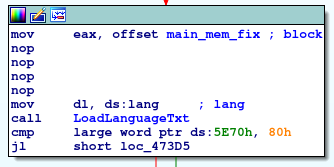
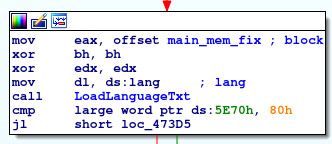
Removed the nop-ing of the xor operations, since they're harmless and may actually be necessary for stable operation.

diff --git a/src/main.rs b/src/main.rs
@@ -4,6 +4,8 @@ use std::env::args;
 use std::io::prelude::*;
 use std::fs::{File,OpenOptions};
 
+use std::convert::TryInto; // To turn slices into arrays...
+
 use pmw1::exe::Pmw1Exe;
 
 fn main() -> std::io::Result<()> {
@@ -59,18 +61,21 @@ fn main() -> std::io::Result<()> {
 
             // Find where it's zeroing the language setting.
             let zerolang_ops = &mut datavec[0x3939f..0x393a9];
-            let expected_ops = &[0x30, 0xff, // xor bh,bh
-                                0x31, 0xd2, // xor edx,edx
-                                0x88, 0x3d, 0x35, 0xfa, 0x03, 0x00]; // mov ds:0x3fa35, bh
-            let corrected_ops = &[0x90, 0x90, 0x90, 0x90, // nop (x4)
-                                0x8a, 0x15, 0x35, 0xfa, 0x03, 0x00]; // mov dl, ds:0x3fa35
-            assert_ne!(zerolang_ops, corrected_ops,
+            let expected_zeroops = &[0x30, 0xff, // xor bh,bh
+                                    0x31, 0xd2]; // xor edx,edx
+            let expected_movop = &[0x88, 0x3d]; // mov ds:<ADDR>, bh
+            let corrected_movop = &[0x8a, 0x15]; // mov dl, ds:<ADDR>
+            assert_eq!(&zerolang_ops[0..4], expected_zeroops,
+                       "EXE doesn't look like the Rayman 1 GOG version!\nOr maybe you already patched it with the older version of this patcher, in which case please restore a backup.");
+            assert_ne!(&zerolang_ops[4..6], corrected_movop,
                        "EXE is already patched!");
-            assert_eq!(zerolang_ops, expected_ops,
+            assert_eq!(&zerolang_ops[4..6], expected_movop,
                        "EXE doesn't look like the Rayman 1 GOG version!");
+            // Print out a tidbit using the rest of the slice.
+            println!("This version of Rayman 1 stores the language setting at ds:{:#010x}.", u32::from_le_bytes(zerolang_ops[6..10].try_into().unwrap()));
 
             // Now that we're happy we need to patch it, load in our substitute bytes
-            zerolang_ops.copy_from_slice(corrected_ops);
+            zerolang_ops[4..6].copy_from_slice(corrected_movop);
 
             datavec
         })?;

diff --git a/README.md b/README.md
@@ -36,6 +36,6 @@ To help understand it, here are screenshots of the relevant portion of `LOAD_CON
 
 ![After](https://github.com/PluMGMK/ray1_unlocklang/blob/master/after.png?raw=true)
 
-Before patching, the code creates zero values (corresponding to the "English" language setting) in `bx` and `edx`, then uses them to set the global language variable to zero, and call `LoadLanguageTxt` with zero as its argument. The patch causes it to instead call `LoadLanguageTxt` with the value loaded *from* the global language variable, like other versions of the game. The four `nop`s are there to pad it out to the full ten bytes of code.
+Before patching, the code creates zero values (corresponding to the "English" language setting) in `bh` and `edx`, then uses them to set the global language variable to zero, and call `LoadLanguageTxt` with zero as its argument. The patch causes it to instead call `LoadLanguageTxt` with the value loaded *from* the global language variable, like other versions of the game. The zeroing of `bh` and `edx` are left intact, since the former is rendered harmless, and the latter is required to ensure the upper three bytes of `edx` don't contain stale data (version 0.1.0 got this wrong!).
 
 A complication to this exercise is that Rayman 1 is in fact a compressed executable in the PMW1 format. Therefore, this program uses my [pmw1-rs crate](https://github.com/PluMGMK/pmw1-rs) to decompress the relevant piece of the EXE, patch it, and then recompress it. If that sounds interesting, you can check out that crate's source code and documentation too.
